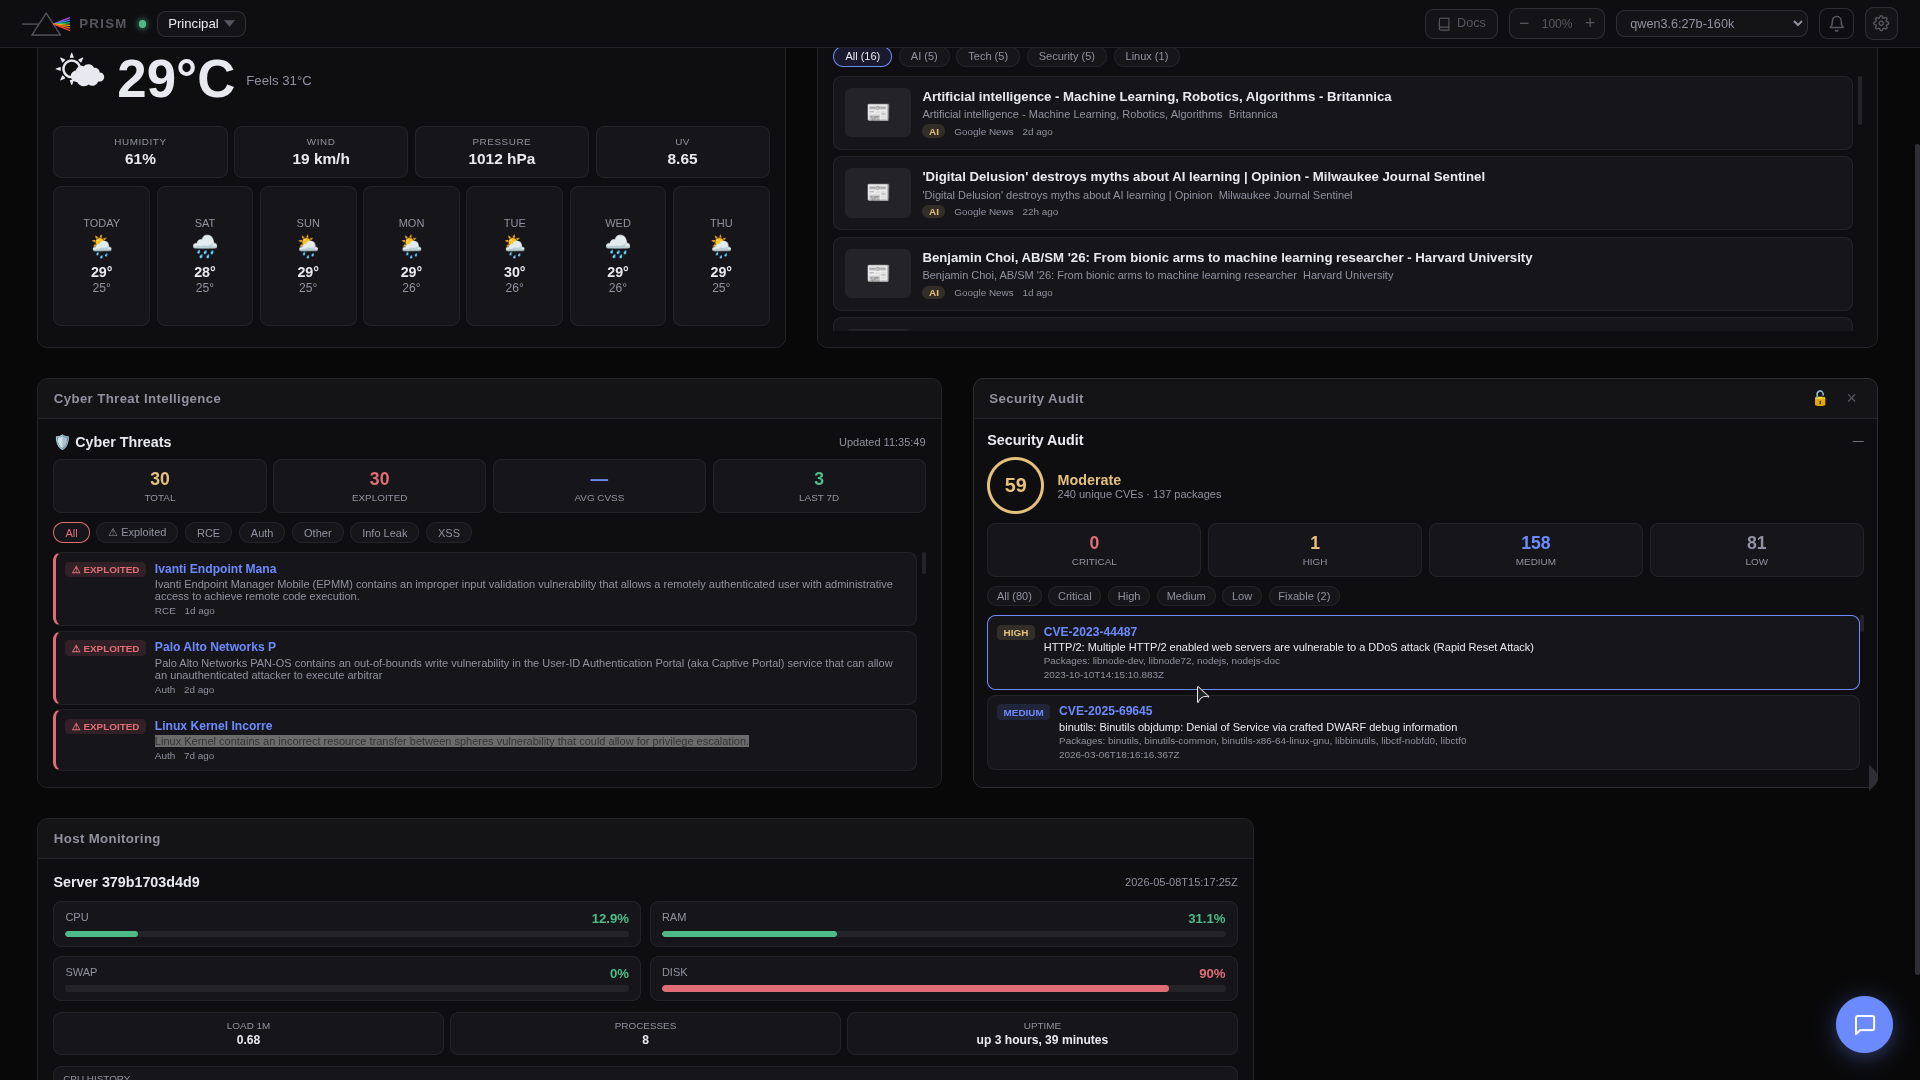
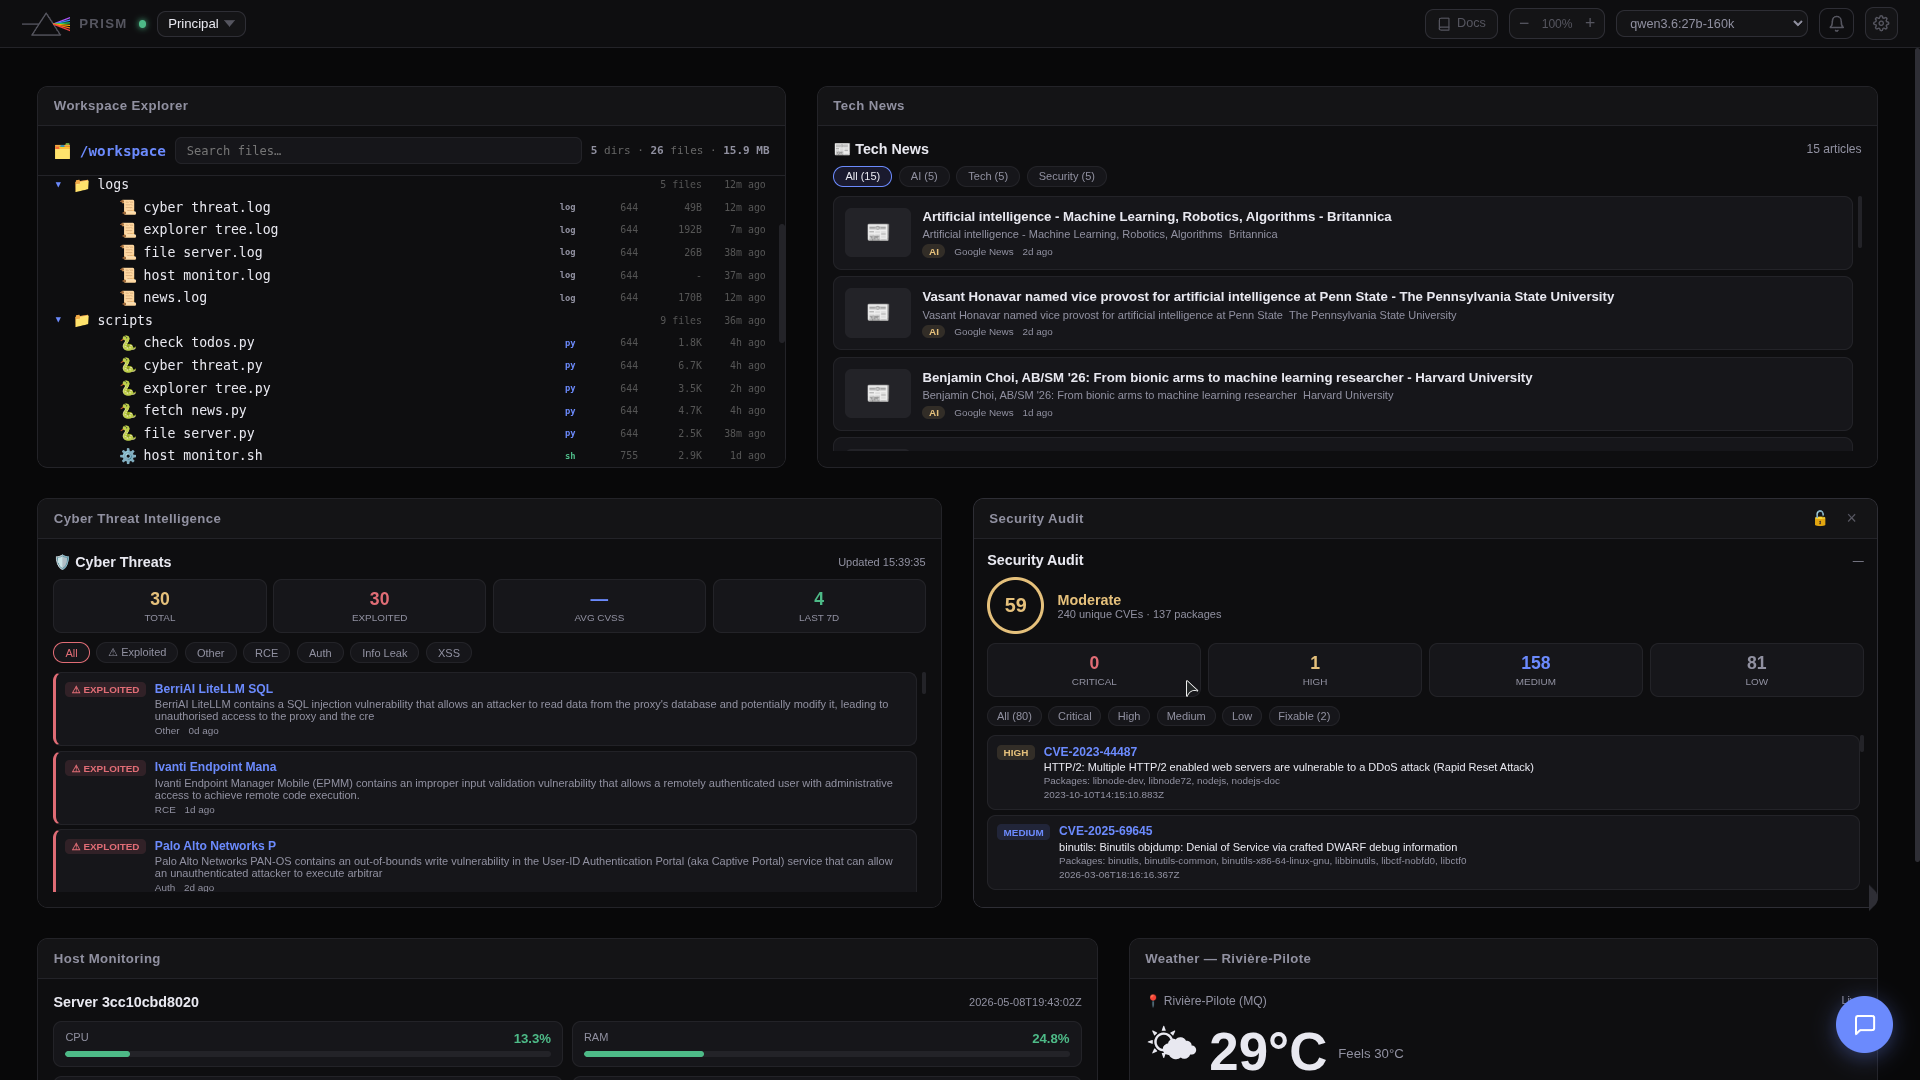
Fixing editor tool

diff --git a/web/app.js b/web/app.js
@@ -1263,7 +1263,7 @@ window.addEventListener('message', e => {
   const d = e.data
   if (!d || !d.type) return
   if (d.type === 'openFile' && d.path) {
-    send({ type: 'open_file', path: d.path })
+    send({ type: 'file_open', path: d.path.replace(/^\/workspace\//, '') })
   } else if (d.type === 'sendChat' && d.text) {
     document.getElementById('chat-input').value = d.text
     if (!chatOpen) toggleChat()
